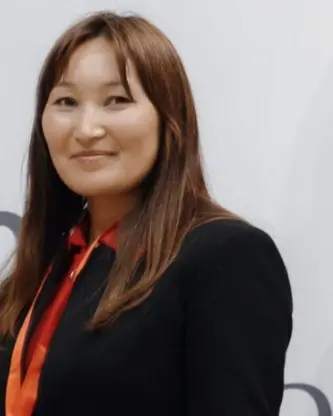
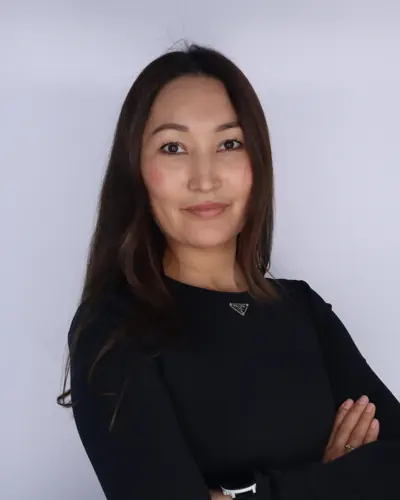
Add files via upload
Фото Асем изменила

diff --git a/index.html b/index.html
@@ -739,7 +739,7 @@ html.motion-off .mq__track{animation:none!important;flex-wrap:wrap;width:auto}
       <p class="lead">Проекты работают самостоятельно. АРИО объединяет их и развивает недостающие связи.</p>
     </div>
     <div class="founders">
-      <article class="fd" data-r><div class="ph" data-in="false"><img src="asem.webp" alt="Асем Тажиева" width="333" height="416" loading="lazy"></div><span class="fd__org">OZIM Platform</span><h3>Асем Тажиева</h3><p>Исследования раннего вмешательства и инклюзивного образования. Мобильное приложение для родителей.</p></article>
+      <article class="fd" data-r><div class="ph" data-in="false"><img src="asem.webp" alt="Асем Тажиева" width="400" height="500" loading="lazy"></div><span class="fd__org">OZIM Platform</span><h3>Асем Тажиева</h3><p>Исследования раннего вмешательства и инклюзивного образования. Мобильное приложение для родителей.</p></article>
       <article class="fd" data-r style="--i:1"><div class="ph" data-in="false"><img src="aliya.webp" alt="Алия Сабитова" width="400" height="500" loading="lazy"></div><span class="fd__org">InCare KZ</span><h3>Алия Сабитова</h3><p>Подбор тьюторов, компаньонов и социальных помощников для детей и взрослых.</p></article>
       <article class="fd" data-r style="--i:2"><div class="ph" data-in="false"><img src="aziza.webp" alt="Азиза Хамитова" width="400" height="500" loading="lazy"></div><span class="fd__org">Raiz Language School</span><h3>Азиза Хамитова</h3><p>Английский и французский для детей и взрослых, включая детей с ООП. Обучение педагогов.</p></article>
       <article class="fd" data-r style="--i:3"><div class="ph" data-in="false"><img src="gulmira.webp" alt="Гульмира Пармышева" width="400" height="500" loading="lazy"></div><span class="fd__org">Global Kishkentai</span><h3>Гульмира Пармышева</h3><p>Мастерская, где молодые люди с инвалидностью создают экологичные игрушки для развития речи.</p></article>

diff --git a/en.html b/en.html
@@ -739,7 +739,7 @@ html.motion-off .mq__track{animation:none!important;flex-wrap:wrap;width:auto}
       <p class="lead">Each project runs independently. ARIO brings them together and builds the missing links.</p>
     </div>
     <div class="founders">
-      <article class="fd" data-r><div class="ph" data-in="false"><img src="asem.webp" alt="Asem Tazhiyeva" width="333" height="416" loading="lazy"></div><span class="fd__org">OZIM Platform</span><h3>Asem Tazhiyeva</h3><p>Research on early intervention and inclusive education. A mobile app for parents.</p></article>
+      <article class="fd" data-r><div class="ph" data-in="false"><img src="asem.webp" alt="Asem Tazhiyeva" width="400" height="500" loading="lazy"></div><span class="fd__org">OZIM Platform</span><h3>Asem Tazhiyeva</h3><p>Research on early intervention and inclusive education. A mobile app for parents.</p></article>
       <article class="fd" data-r style="--i:1"><div class="ph" data-in="false"><img src="aliya.webp" alt="Aliya Sabitova" width="400" height="500" loading="lazy"></div><span class="fd__org">InCare KZ</span><h3>Aliya Sabitova</h3><p>Matching tutors, companions and social assistants with children and adults.</p></article>
       <article class="fd" data-r style="--i:2"><div class="ph" data-in="false"><img src="aziza.webp" alt="Aziza Khamitova" width="400" height="500" loading="lazy"></div><span class="fd__org">Raiz Language School</span><h3>Aziza Khamitova</h3><p>English and French for children and adults, including children with SEN. Teacher training.</p></article>
       <article class="fd" data-r style="--i:3"><div class="ph" data-in="false"><img src="gulmira.webp" alt="Gulmira Parmysheva" width="400" height="500" loading="lazy"></div><span class="fd__org">Global Kishkentai</span><h3>Gulmira Parmysheva</h3><p>A workshop where young people with disabilities make eco-friendly toys for speech development.</p></article>
